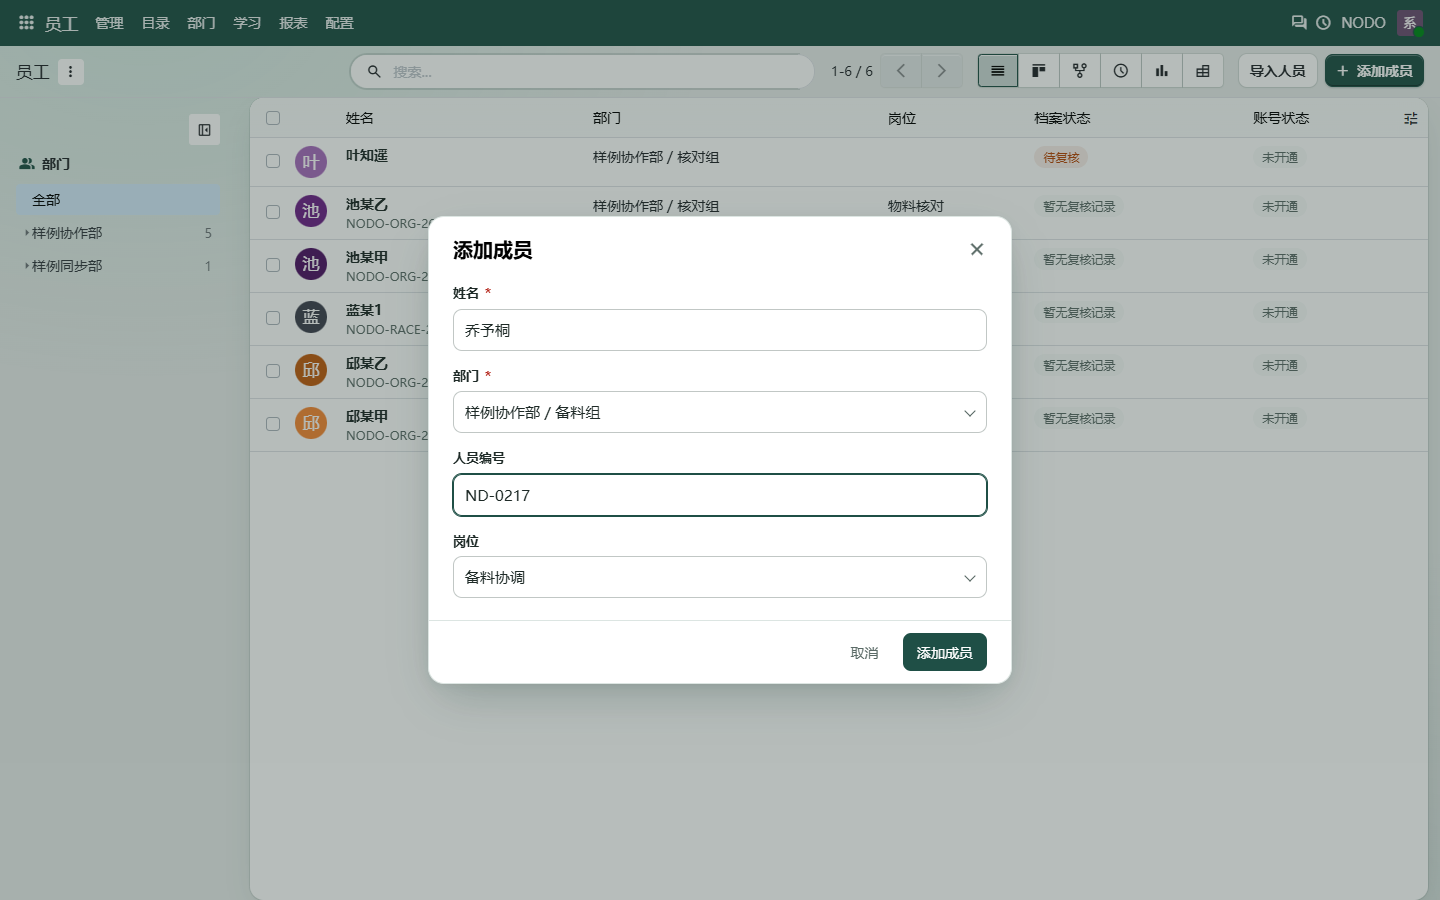
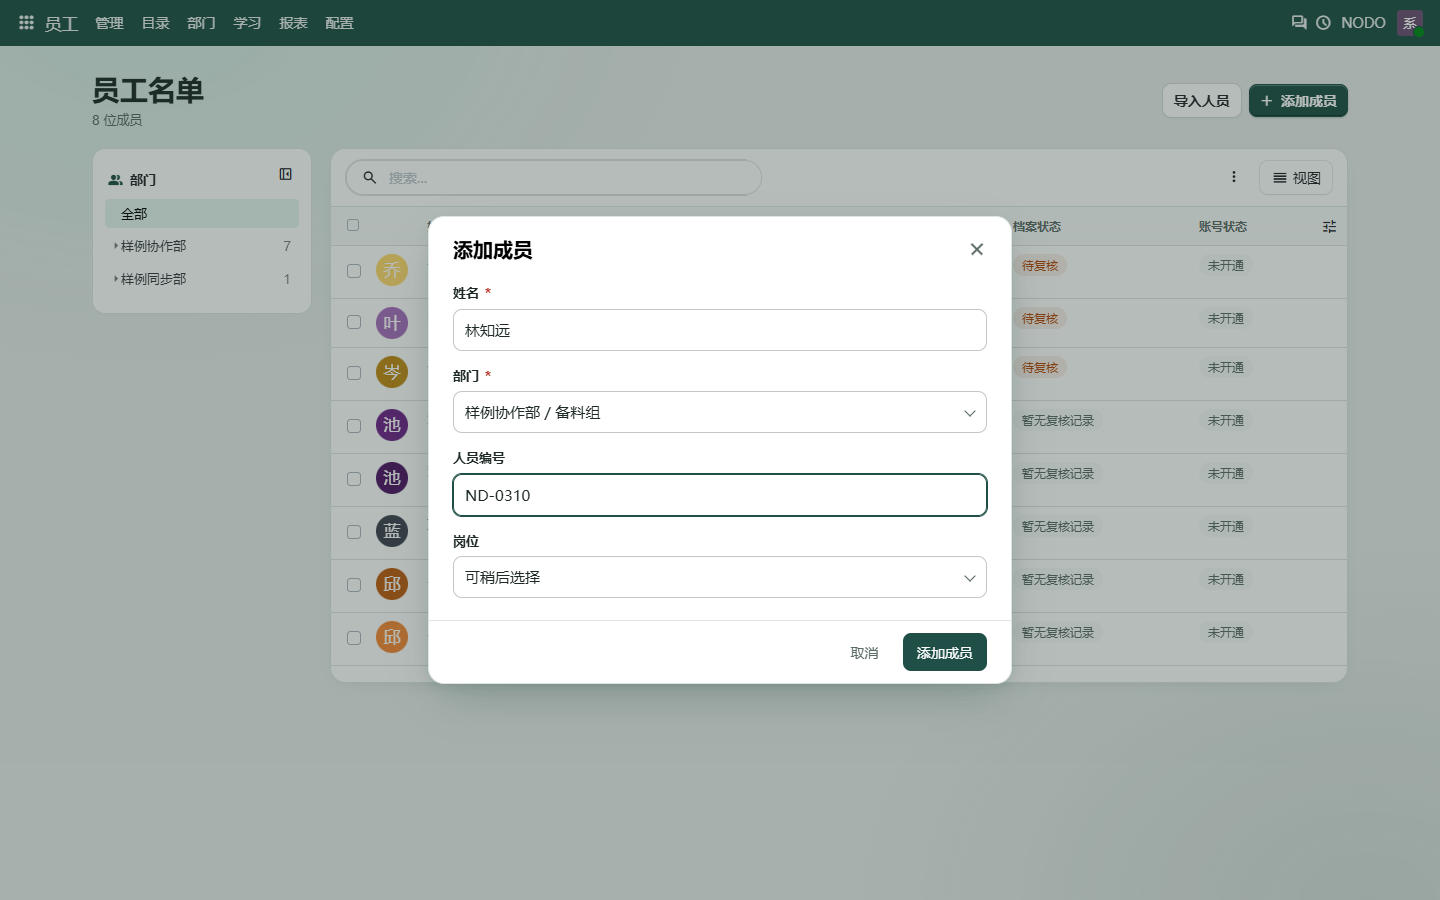
重整员工名单版式和操作区

diff --git a/addons/nodo_staff_import/static/src/member_directory.scss b/addons/nodo_staff_import/static/src/member_directory.scss
@@ -1,4 +1,83 @@
 .o_nodo_staff_directory {
+    --nodo-staff-gutter: clamp(16px, 3.4vw, 44px);
+
+    .o_nodo_staff_page_header, .o_nodo_staff_workspace {
+        width: 100%;
+        max-width: 84rem;
+        margin-inline: auto;
+        padding-inline: var(--nodo-staff-gutter);
+    }
+
+    .o_nodo_staff_page_header {
+        display: flex;
+        align-items: center;
+        justify-content: space-between;
+        gap: 16px;
+        flex: 0 0 auto;
+        padding-block: 25px 17px;
+
+        h1 {
+            margin: 0;
+            color: $nodo-text;
+            font-size: clamp(21px, 2vw, 28px);
+            font-weight: 650;
+            line-height: 1.3;
+        }
+
+        p {
+            margin: 3px 0 0;
+            color: $nodo-text-muted;
+            font-size: 13px;
+            font-variant-numeric: tabular-nums;
+        }
+    }
+
+    .o_nodo_staff_workspace {
+        align-items: flex-start;
+        min-height: 0;
+        padding-block: 1px 30px;
+
+        > .o_search_panel {
+            --SearchPanel-fontSize: 13px;
+            max-width: 36%;
+            max-height: 100%;
+            padding: 13px 12px 17px !important;
+            border: 1px solid $nodo-border;
+            border-radius: 13px;
+            background-color: $nodo-card;
+
+            > div:first-child:has(button) {
+                position: absolute;
+                inset-block-start: 9px;
+                inset-inline-end: 10px;
+            }
+
+            .o_search_panel_section_header {
+                padding-inline-end: 30px;
+            }
+
+            .list-group-item.active {
+                --list-group-active-bg: #{$nodo-accent-soft};
+                --list-group-active-color: #{$nodo-primary};
+            }
+        }
+
+        > .o_search_panel_resize {
+            align-self: stretch;
+            min-width: 14px;
+        }
+
+        > .o_search_panel_sidebar {
+            height: auto !important;
+            min-height: 100px;
+            margin-inline: 0 12px !important;
+            padding: 7px;
+            border: 1px solid $nodo-border;
+            border-radius: 10px;
+            background-color: $nodo-card;
+        }
+    }
+
     .o_nodo_staff_actions {
         align-items: center;
 
@@ -9,6 +88,80 @@
 
         .o_nodo_add_member .oi {
             margin-inline-end: 3px;
+        }
+    }
+
+    .o_nodo_roster_card {
+        display: flex;
+        flex-direction: column;
+        flex: 1 1 0;
+        min-width: 0;
+        max-height: 100%;
+        border: 1px solid $nodo-border;
+        border-radius: 15px;
+        background-color: $nodo-card;
+        box-shadow: 0 5px 18px -12px $nodo-glass-shade;
+
+        .o_control_panel {
+            flex: 0 0 auto;
+            padding: 11px 15px !important;
+            border-bottom: 1px solid $nodo-border;
+        }
+
+        .o_control_panel_main {
+            align-items: center !important;
+            gap: 9px !important;
+        }
+
+        .o_control_panel_actions {
+            flex: 1 1 0;
+            justify-content: flex-start !important;
+            order: 0 !important;
+            min-width: 0;
+            width: auto !important;
+        }
+
+        .o_cp_searchview {
+            width: 100%;
+            max-width: 26rem;
+        }
+
+        .o_control_panel_breadcrumbs {
+            flex: 0 0 auto;
+            order: 1 !important;
+        }
+
+        .o_control_panel_navigation {
+            flex: 0 0 auto;
+            flex-grow: 0 !important;
+            order: 2 !important;
+        }
+
+        .o_cp_switch_buttons button {
+            border-radius: 8px;
+            white-space: nowrap;
+        }
+
+        .o_list_renderer {
+            min-height: 0;
+            border-radius: 0 0 14px 14px;
+        }
+
+        .o_list_table thead th {
+            background-color: $nodo-panel;
+            color: $nodo-text-muted;
+            font-size: 12px;
+            font-weight: 600;
+        }
+
+        .o_list_table tbody tr:last-child > td {
+            border-bottom: 0;
+        }
+
+        .o_list_table td[name="department_id"] {
+            white-space: normal !important;
+            overflow-wrap: anywhere;
+            line-height: 1.35;
         }
     }
 
@@ -66,6 +219,23 @@
 
         &.o_nodo_staff_recent > td:first-child {
             box-shadow: inset 3px 0 $nodo-accent;
+        }
+    }
+}
+
+@media (max-width: 767.98px) {
+    .o_nodo_staff_directory {
+        .o_nodo_staff_page_header {
+            flex-wrap: wrap;
+            padding-block: 15px 12px;
+        }
+
+        .o_nodo_roster_card .o_control_panel_actions {
+            flex-basis: 100%;
+        }
+
+        .o_nodo_roster_card .o_control_panel_navigation {
+            margin-inline-start: auto;
         }
     }
 }

diff --git a/addons/nodo_staff_import/static/src/member_directory.js b/addons/nodo_staff_import/static/src/member_directory.js
@@ -4,6 +4,8 @@ import { registry } from "@web/core/registry";
 import { user } from "@web/core/user";
 import { useService } from "@web/core/utils/hooks";
 import { useSubEnv } from "@web/owl2/utils";
+import { ControlPanel } from "@web/search/control_panel/control_panel";
+import { Layout } from "@web/search/layout";
 import { standardFieldProps } from "@web/views/fields/standard_field_props";
 import { ListRenderer } from "@web/views/list/list_renderer";
 import { listView } from "@web/views/list/list_view";
@@ -116,8 +118,22 @@ class MemberDialog extends Component {
     }
 }
 
+class StaffDirectoryControlPanel extends ControlPanel {
+    static template = "nodo_staff_import.StaffDirectoryControlPanel";
+}
+
+class StaffDirectoryLayout extends Layout {
+    static template = "nodo_staff_import.StaffDirectoryLayout";
+
+    setup() {
+        super.setup();
+        this.components.ControlPanel = StaffDirectoryControlPanel;
+    }
+}
+
 class StaffDirectoryController extends EmployeeListController {
     static template = "nodo_staff_import.StaffDirectory";
+    static components = { ...EmployeeListController.components, Layout: StaffDirectoryLayout };
     openingMember = signal(false);
     recentMember = signal(null);
 
@@ -137,6 +153,12 @@ class StaffDirectoryController extends EmployeeListController {
 
     get nodoCanAddMember() {
         return this.nodoIsAdministrator && this.activeActions.create && !this.env.inDialog;
+    }
+
+    get memberCountLabel() {
+        if (!this.model.isReady() || this.model.useSampleModel || this.model.root.isGrouped) return "";
+        const { count, hasLimitedCount } = this.model.root;
+        return `${count}${hasLimitedCount ? "+" : ""} 位成员`;
     }
 
     async createRecord(options) {

diff --git a/DESIGN.md b/DESIGN.md
@@ -171,7 +171,7 @@
 - 有新增或更新时显示「导入档案」。完成后保留本次结果，在「人员导入记录」中可核对目标公司、操作人和各项数量。员工档案使用标准员工表单，管理员可查看「人员编号」。
 - 员工详情姓名旁的「补充信息」打开「补充员工信息」。白色弹窗常规宽 584 像素。标题下的浅灰绿摘要从左到右放小头像、可编辑姓名和已有复核状态。架构图编号放在姓名下方，只读。人员编号、部门、岗位在摘要下单列对齐。部门显示数据中的完整路径。
 - 表单打开后聚焦首个缺项。底部左侧显示待补数量或「资料已齐」，右侧为「取消」「保存」。错误贴近字段。真实保存请求进行时显示「保存中…」并锁定重复操作，提交成功才提示已保存。来源编号、部门层级和复核标签由原档案管理。小窗口只滚动内容区，系统开启减少动态效果时直接显示弹窗。
-- 「员工 → 管理」默认打开名单。圆形头像和姓名为主要识别，人员编号放在姓名下方。部门和岗位居中排列，右侧用浅色状态标签展示档案与账号状态。「导入人员」与主按钮「添加成员」位于工具栏右侧，原生部门筛选和分页用于查找档案。
+- 「员工 → 管理」默认打开名单。页头左侧显示标题和当前成员数，右侧为「导入人员」与主按钮「添加成员」。左侧是部门卡片。名单卡片顶部放搜索、操作菜单和「视图」下拉，多页时显示分页。圆形头像和姓名为主要识别，人员编号放在姓名下方。部门路径可换行，岗位、档案与账号状态分别显示。
 - 「添加成员」沿用单列弹窗。姓名和部门必填，人员编号与岗位可稍后补齐。选中的部门可作为默认值，岗位限当前部门。同名时显示已有档案的部门和人员编号，核对后可继续。重复人员编号在字段旁提供已有档案入口。
 - 服务端保存后刷新名单和人数。可见的新行短暂高亮，当前筛选看不见时提供「查看成员」。新档案为「待复核」「未开通」，账号通过员工详情设置单独开通。
 

diff --git a/docs/验收/成员添加验收.md b/docs/验收/成员添加验收.md
@@ -14,7 +14,11 @@
 从 [Arc UI 参考](https://uiarc.dev/components/blocks/team-members#preview) 对照首轮截图后，工号由独立宽列移到姓名下方，状态改用浅色标签。NODO 的保存反馈落在新成员行上，人员编号、部门和档案状态来自实际保存的记录。
 
 - [添加成员表单](33-成员添加-01-弹窗.png)
-- [保存后入列与高亮](33-成员添加-02-入列.png)
+- [保存后的员工名单](33-成员添加-02-入列.png)
 - [员工详情的开通账号入口](33-成员添加-03-开通账号.png)
 
 `scripts/nodo.ps1 test nodo_staff_import` 共 19 项通过，失败和错误均为 0。`scripts/nodo.ps1 update nodo_staff_import` 更新后复查本地名单和账号入口，页面脚本错误为 0。浏览器核对范围为上述桌面路径。
+
+### 名单布局复核
+
+按同宽截图复核后，标题、人数和建档操作放在独立页头。搜索、操作菜单和视图切换放在名单卡片内。较窄时部门路径换行显示。Chrome 桌面实测打开添加弹窗、重复工号提示并保留输入、切换部门查看人数、搜索姓名，以及从列表切换到看板再返回。此轮使用已有虚构档案，业务测试沿用上一轮结果。

diff --git a/docs/手册/管理员/人员档案接入.md b/docs/手册/管理员/人员档案接入.md
@@ -43,7 +43,7 @@
 
 ## 添加成员
 
-1. 有员工建档权限的系统管理员进入「员工 → 管理」，点击名单右上角的「添加成员」。
+1. 有员工建档权限的系统管理员进入「员工 → 管理」，点击「员工名单」页头右侧的「添加成员」。左侧可以筛选部门。名单卡片顶部可搜索员工，也可从「视图」菜单切换。
 2. 填写姓名并选择部门。左侧已选部门时，弹窗默认带入当前公司可用的部门。人员编号和岗位可稍后补齐。岗位从所选部门的现有岗位中选择。
 3. 点击「添加成员」。人员编号在同公司内忽略字母大小写核对。重复时可查看已有档案。同名时先看提示中的部门和工号，确认是不同员工后点「添加同名成员」。
 4. 看到「成员已添加」后，在名单核对「待复核」和「未开通」。如果当前筛选下看不到新成员，点提示中的「查看成员」。表单校验失败时，可保留现有填写并修改出错字段。
